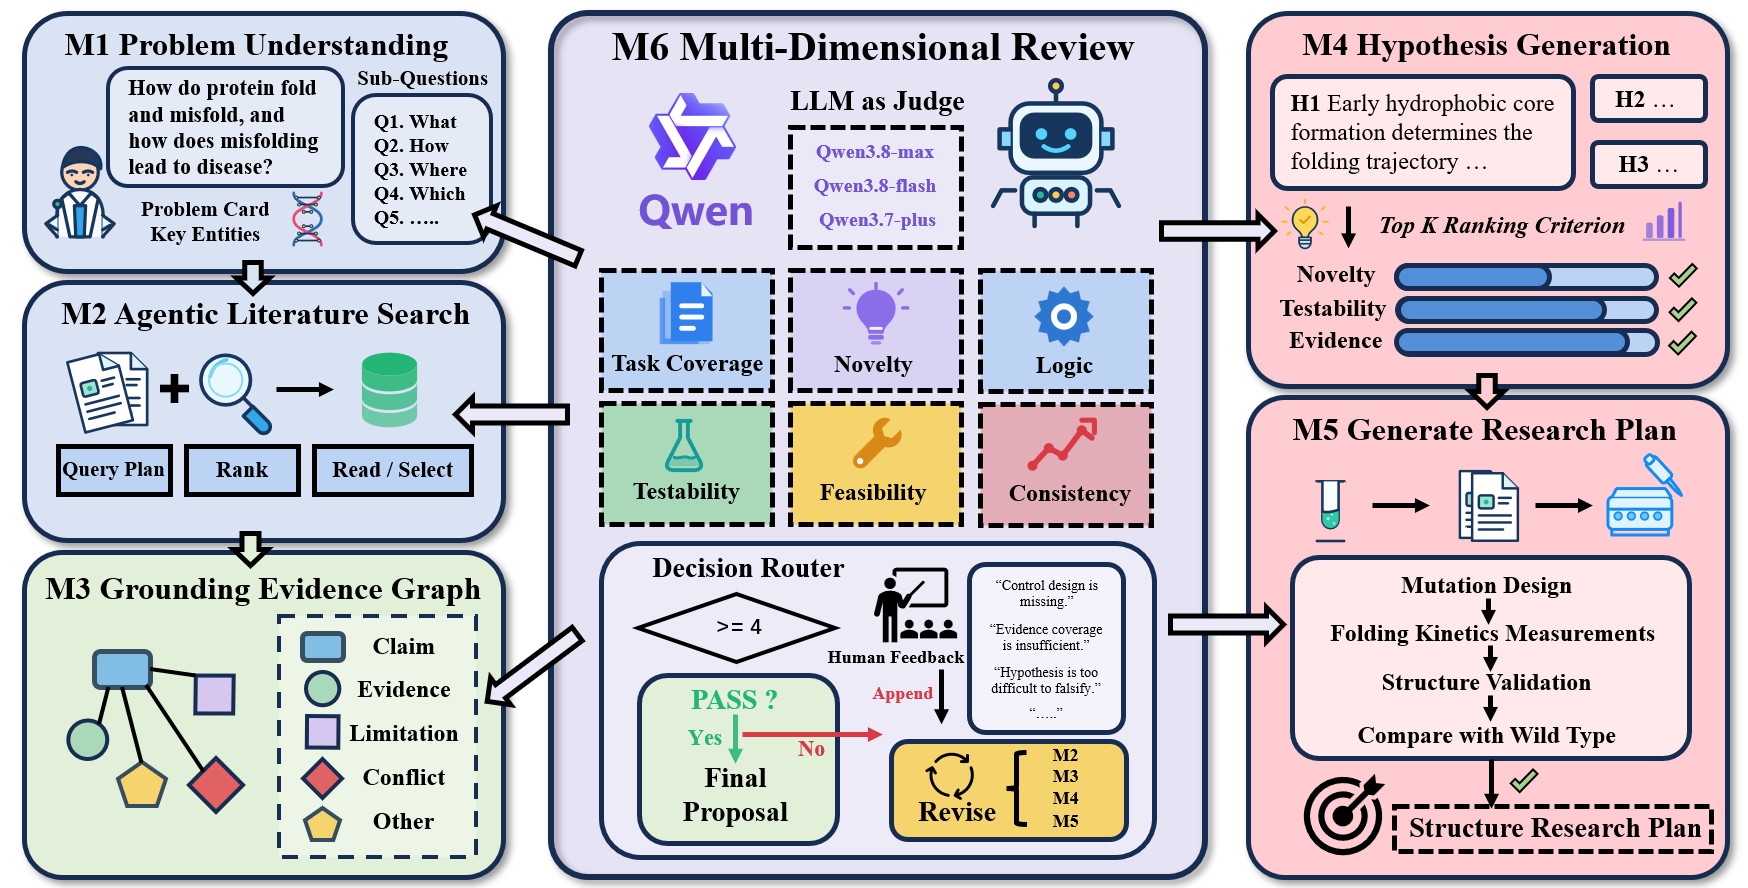
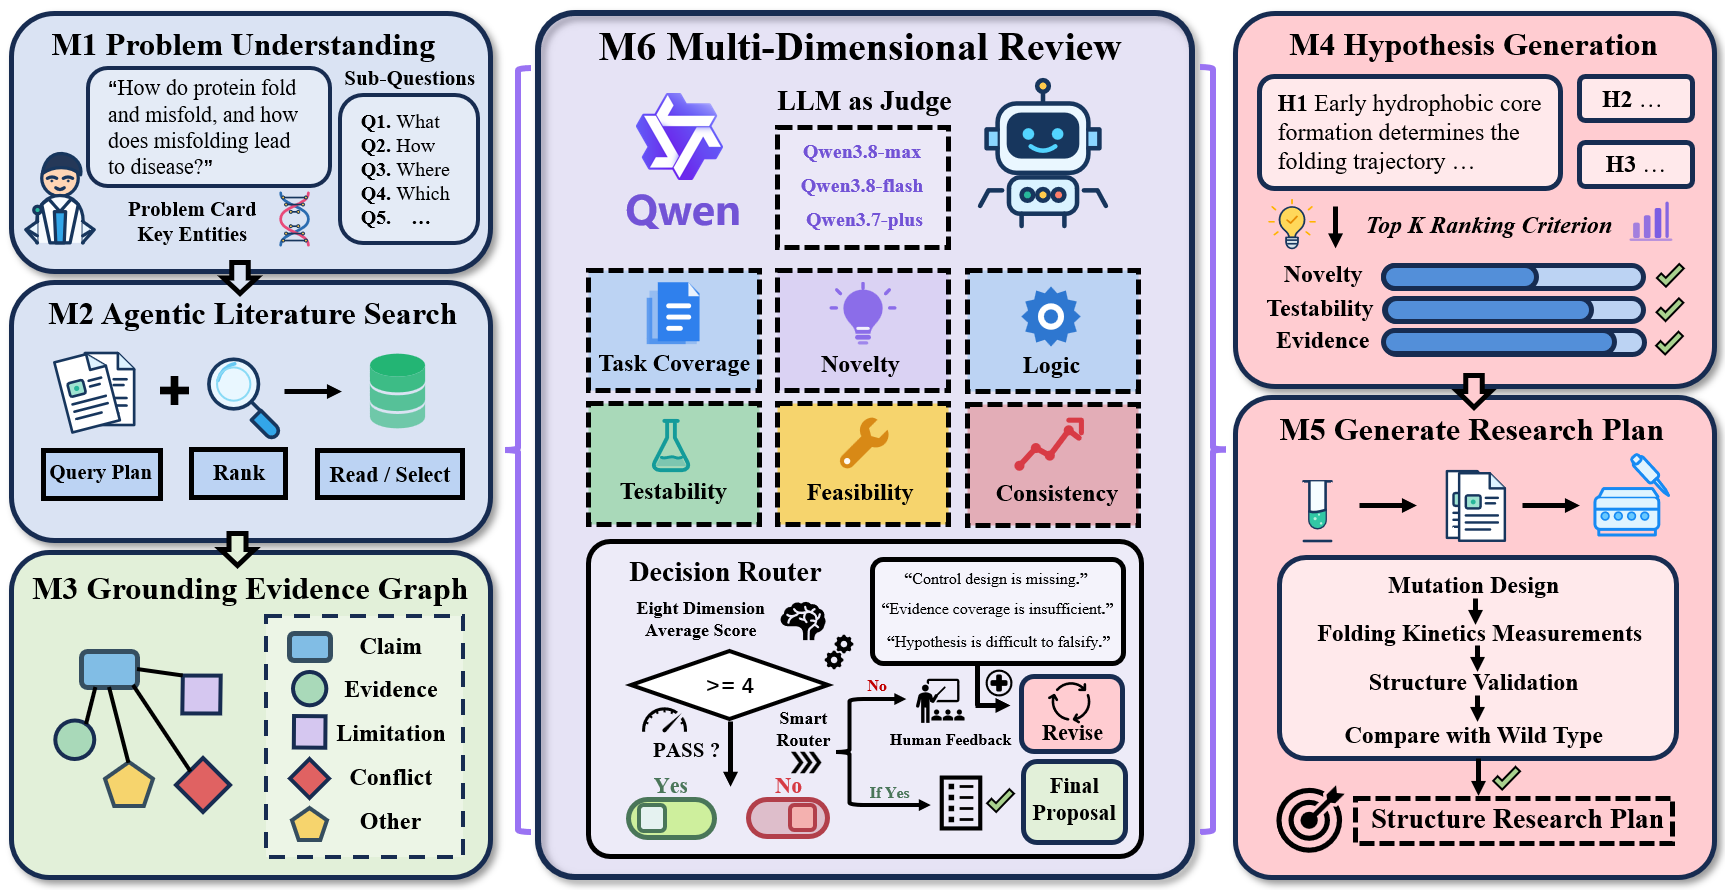
docs: refresh README assets and demo preview

diff --git a/README_ZH.md b/README_ZH.md
@@ -20,9 +20,9 @@ HypoForge 是一个面向科学假设生成与研究计划设计的开源 AI Sci
 
 ## Demo 演示
 
-<video controls width="100%" src="https://media.githubusercontent.com/media/Jyzan/HypoForge/main/assets/demo.mp4"></video>
+[![HypoForge 演示预览](assets/demo-preview.gif)](assets/demo.mp4)
 
-[如果播放器不可用，打开 demo.mp4](assets/demo.mp4)。
+[打开完整演示视频](assets/demo.mp4)。
 
 ## 系统流程
 

diff --git a/README.md b/README.md
@@ -20,9 +20,9 @@ HypoForge is an open-source AI Scientist pipeline for scientific hypothesis gene
 
 ## Demo
 
-<video controls width="100%" src="https://media.githubusercontent.com/media/Jyzan/HypoForge/main/assets/demo.mp4"></video>
+[![HypoForge demo preview](assets/demo-preview.gif)](assets/demo.mp4)
 
-[Open the demo video](assets/demo.mp4) if the player is unavailable.
+[Open the full demo video](assets/demo.mp4).
 
 ## Pipeline
 
